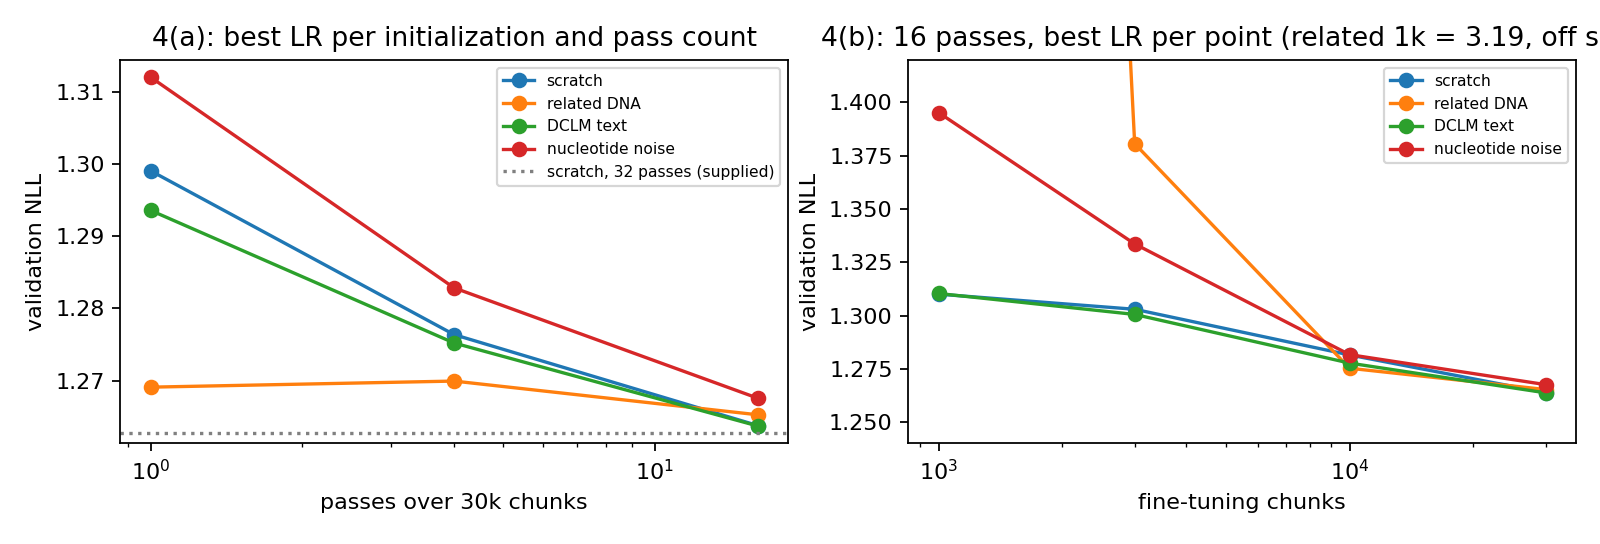
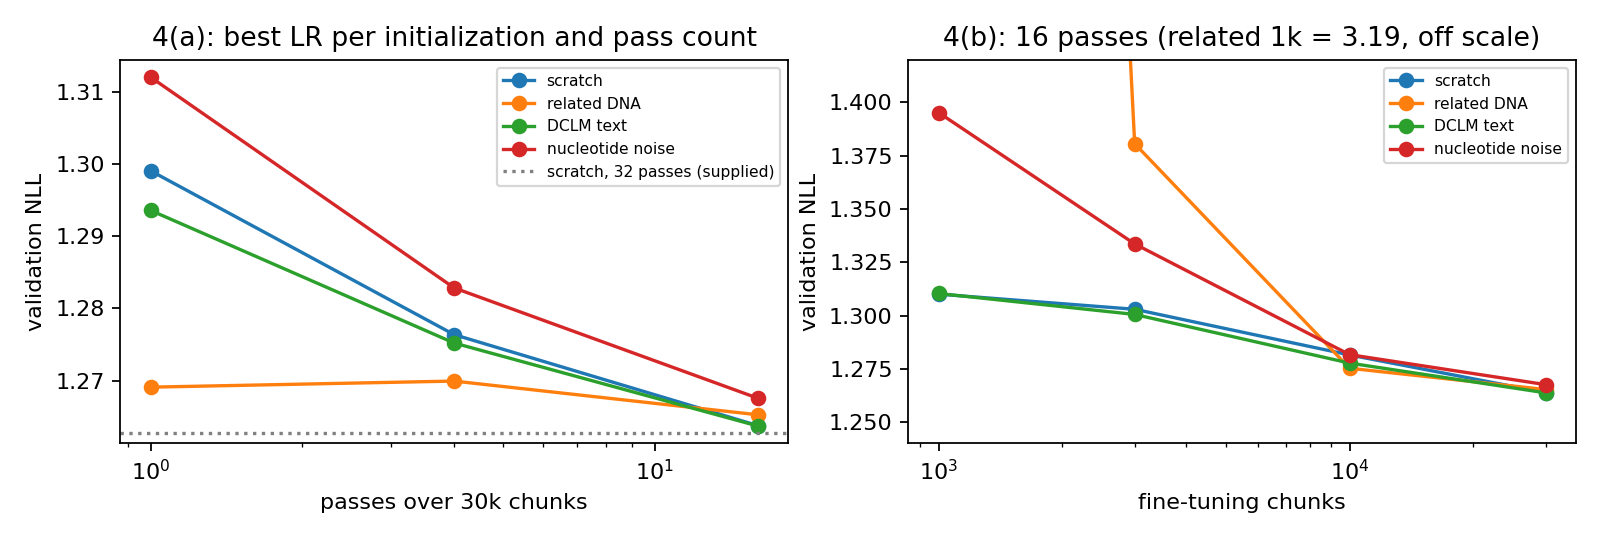
A6: shorter P4(b) title

Changed region(s): [[0.5, 0.0312, 1.0, 0.0938]]

diff --git a/experiments/a6_generalization/report_tables.py b/experiments/a6_generalization/report_tables.py
@@ -84,7 +84,7 @@ def p4():
         if len(ns) >= 3:
             try: fits[init] = power_law(np.array(ns), np.array(ys))
             except Exception: pass
-    ax[1].set(xscale='log', xlabel='fine-tuning chunks', ylabel='validation NLL', title='4(b): 16 passes, best LR per point (related 1k = 3.19, off scale)', ylim=(1.24, 1.42)); ax[1].legend(fontsize=7)
+    ax[1].set(xscale='log', xlabel='fine-tuning chunks', ylabel='validation NLL', title='4(b): 16 passes (related 1k = 3.19, off scale)', ylim=(1.24, 1.42)); ax[1].legend(fontsize=7)
     fig.tight_layout(); fig.savefig(P / 'p4.png', dpi=160)
     brows = []
     for init in INITS:
